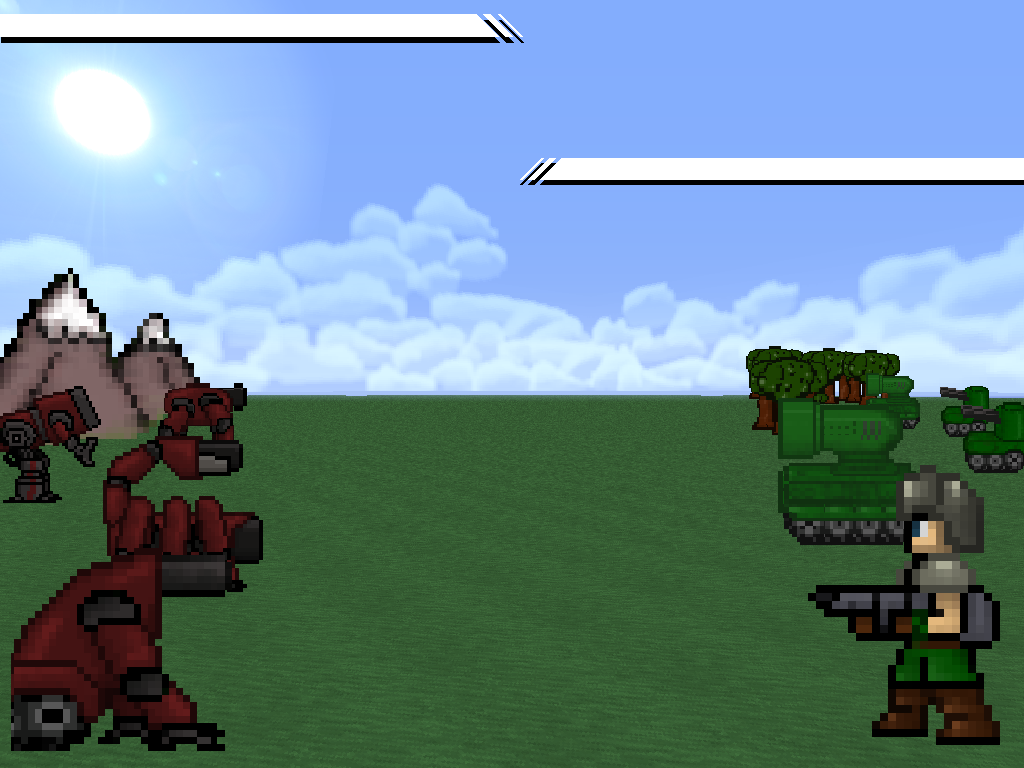
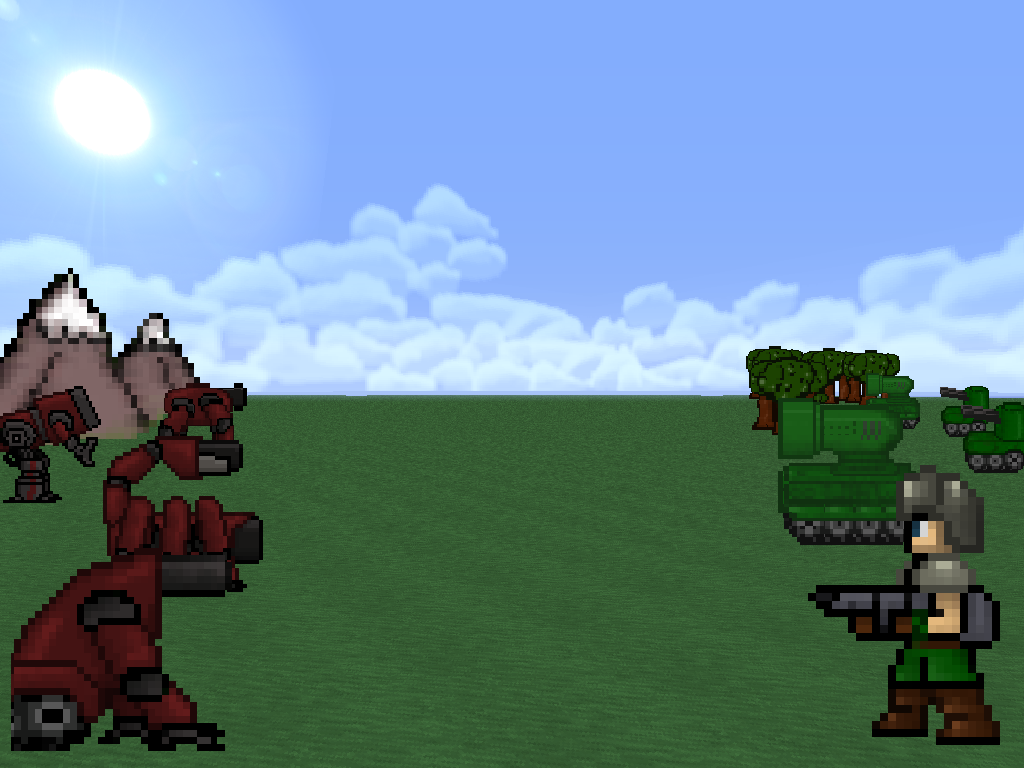
Changement mineur de l'apparence du menu principal

Changed region(s): [[0.0, 0.0, 0.5, 0.0625], [0.5, 0.1875, 1.0, 0.25]]

diff --git a/PanelMatrice.java b/PanelMatrice.java
@@ -313,76 +313,78 @@ public class PanelMatrice extends JPanel
         
         // Si la partie est finie : Ecran de fin de partie
         if(Slatch.partie.partieFinie) {
-            // Fond d'ecran de fin de partie
-            afficheImageRedim ("noir80", 0, 0, this.getWidth(), this.getHeight(), g);
-            
-            // Choix de la police de char
-            Font font = new Font("Serif", Font.BOLD, this.getWidth()/75);
-            g.setFont(font);
-            FontMetrics fm=getFontMetrics(font); 
-            g.setColor(Color.white);
-            
-            int hauteurSize = fm.getHeight();
-            String joueur = "Le joueur "+ Slatch.partie.getJoueurActuel() +" a gagné";
-            int joueurSize = fm.stringWidth(joueur);
-            g.drawString(joueur, this.getWidth()/2 - joueurSize/2, 2*this.getHeight()/(2*hauteurSize));
-            
-            // Affiche les statistiques
-            for(int i=1; i<=Slatch.partie.getNbrJoueur(); i++){
-                int decalage=0;
-                if(Slatch.partie.getNbrJoueur()==2 && i==1) decalage=-this.getWidth()/5;
-                if(Slatch.partie.getNbrJoueur()==2 && i==2) decalage=this.getWidth()/5;
-                
-                if(Slatch.partie.getNbrJoueur()==3 && i==1) decalage=-this.getWidth()/5;
-                if(Slatch.partie.getNbrJoueur()==3 && i==2) decalage=0;
-                if(Slatch.partie.getNbrJoueur()==3 && i==3) decalage=this.getWidth()/5;
-                
-                if(Slatch.partie.getNbrJoueur()==4 && i==1) decalage=-this.getWidth()/3;
-                if(Slatch.partie.getNbrJoueur()==4 && i==2) decalage=-this.getWidth()/9;
-                if(Slatch.partie.getNbrJoueur()==4 && i==3) decalage=this.getWidth()/9;
-                if(Slatch.partie.getNbrJoueur()==4 && i==4) decalage=this.getWidth()/3;
-                
-                String stat1 = "Statistiques du joueur " + i;
-                int stat1Size = fm.stringWidth(stat1);
-                String stat13 = "Score : " + Slatch.partie.ListeJoueur.get(i).getScore();
-                int stat13Size = fm.stringWidth(stat13);
-                String stat2 = "Argent recolte : " + Slatch.partie.ListeJoueur.get(i).getArgentTotal()+"¤";
-                int stat2Size = fm.stringWidth(stat2);
-                String stat3 = "Argent depense : " + Slatch.partie.ListeJoueur.get(i).getArgentDepense()+"¤";
-                int stat3Size = fm.stringWidth(stat3);
-                String stat4 = "Batiments Captures: " + Slatch.partie.ListeJoueur.get(i).getCaptureTotal();
-                int stat4Size = fm.stringWidth(stat4);
-                String stat11 = "Unites Tuées : " + Slatch.partie.ListeJoueur.get(i).getNbrUniteTue();
-                int stat11Size = fm.stringWidth(stat11);
-                String stat10 = "Unites créées : " + Slatch.partie.ListeJoueur.get(i).getNbrUniteCree();
-                int stat10Size = fm.stringWidth(stat10);
-                String stat5 = "Unites perdues : " + Slatch.partie.ListeJoueur.get(i).getNbrUniteMort();
-                int stat5Size = fm.stringWidth(stat5);
-                String stat6 = "Degats infliges : " + Slatch.partie.ListeJoueur.get(i).getDegatTotal();
-                int stat6Size = fm.stringWidth(stat6);
-                String stat12 = "Soin donne : " + Slatch.partie.ListeJoueur.get(i).getSoinTotal();
-                int stat12Size = fm.stringWidth(stat12);
-                String stat7 = "Degats subis : " + Slatch.partie.ListeJoueur.get(i).getDegatSubit();
-                int stat7Size = fm.stringWidth(stat7);
-                String stat8 = "Experience Totale : " + Slatch.partie.ListeJoueur.get(i).getExpTotal();
-                int stat8Size = fm.stringWidth(stat8);
-                String stat9 = "Deplacement Total : " + Slatch.partie.ListeJoueur.get(i).getDeplacementTotal();
-                int stat9Size = fm.stringWidth(stat9);
-                    
-                g.drawString(stat1, this.getWidth()/2 + decalage - stat1Size/2, 4*this.getHeight()/(2*hauteurSize));
-                g.drawString(stat13, this.getWidth()/2 + decalage - stat13Size/2, 5*this.getHeight()/(2*hauteurSize));
-                g.drawString(stat2, this.getWidth()/2 + decalage - stat2Size/2, 6*this.getHeight()/(2*hauteurSize));
-                g.drawString(stat3, this.getWidth()/2 + decalage - stat3Size/2, 7*this.getHeight()/(2*hauteurSize));
-                g.drawString(stat4, this.getWidth()/2 + decalage - stat4Size/2, 8*this.getHeight()/(2*hauteurSize));
-                g.drawString(stat5, this.getWidth()/2 + decalage - stat5Size/2, 9*this.getHeight()/(2*hauteurSize));
-                g.drawString(stat11, this.getWidth()/2 + decalage - stat11Size/2, 10*this.getHeight()/(2*hauteurSize));
-                g.drawString(stat10, this.getWidth()/2 + decalage - stat10Size/2, 11*this.getHeight()/(2*hauteurSize));
-                g.drawString(stat6, this.getWidth()/2 + decalage - stat6Size/2, 12*this.getHeight()/(2*hauteurSize));
-                g.drawString(stat12, this.getWidth()/2 + decalage - stat12Size/2, 13*this.getHeight()/(2*hauteurSize));
-                g.drawString(stat7, this.getWidth()/2 + decalage - stat7Size/2, 14*this.getHeight()/(2*hauteurSize));
-                g.drawString(stat8, this.getWidth()/2 + decalage - stat8Size/2, 15*this.getHeight()/(2*hauteurSize));
-                g.drawString(stat9, this.getWidth()/2 + decalage - stat9Size/2, 16*this.getHeight()/(2*hauteurSize));
-            }
+//            // Fond d'ecran de fin de partie
+//            afficheImageRedim ("noir80", 0, 0, this.getWidth(), this.getHeight(), g);
+//            
+//            // Choix de la police de char
+//            Font font = new Font("Serif", Font.BOLD, this.getWidth()/75);
+//            g.setFont(font);
+//            FontMetrics fm=getFontMetrics(font); 
+//            g.setColor(Color.white);
+//            
+//            int hauteurSize = fm.getHeight();
+//            String joueur = "Le joueur "+ Slatch.partie.getJoueurActuel() +" a gagné";
+//            int joueurSize = fm.stringWidth(joueur);
+//            g.drawString(joueur, this.getWidth()/2 - joueurSize/2, 2*this.getHeight()/(2*hauteurSize));
+//            
+//            // Affiche les statistiques
+//            for(int i=1; i<=Slatch.partie.getNbrJoueur(); i++){
+//                int decalage=0;
+//                if(Slatch.partie.getNbrJoueur()==2 && i==1) decalage=-this.getWidth()/5;
+//                if(Slatch.partie.getNbrJoueur()==2 && i==2) decalage=this.getWidth()/5;
+//                
+//                if(Slatch.partie.getNbrJoueur()==3 && i==1) decalage=-this.getWidth()/5;
+//                if(Slatch.partie.getNbrJoueur()==3 && i==2) decalage=0;
+//                if(Slatch.partie.getNbrJoueur()==3 && i==3) decalage=this.getWidth()/5;
+//                
+//                if(Slatch.partie.getNbrJoueur()==4 && i==1) decalage=-this.getWidth()/3;
+//                if(Slatch.partie.getNbrJoueur()==4 && i==2) decalage=-this.getWidth()/9;
+//                if(Slatch.partie.getNbrJoueur()==4 && i==3) decalage=this.getWidth()/9;
+//                if(Slatch.partie.getNbrJoueur()==4 && i==4) decalage=this.getWidth()/3;
+//                
+//                String stat1 = "Statistiques du joueur " + i;
+//                int stat1Size = fm.stringWidth(stat1);
+//                String stat13 = "Score : " + Slatch.partie.ListeJoueur.get(i).getScore();
+//                int stat13Size = fm.stringWidth(stat13);
+//                String stat2 = "Argent recolte : " + Slatch.partie.ListeJoueur.get(i).getArgentTotal()+"¤";
+//                int stat2Size = fm.stringWidth(stat2);
+//                String stat3 = "Argent depense : " + Slatch.partie.ListeJoueur.get(i).getArgentDepense()+"¤";
+//                int stat3Size = fm.stringWidth(stat3);
+//                String stat4 = "Batiments Captures: " + Slatch.partie.ListeJoueur.get(i).getCaptureTotal();
+//                int stat4Size = fm.stringWidth(stat4);
+//                String stat11 = "Unites Tuées : " + Slatch.partie.ListeJoueur.get(i).getNbrUniteTue();
+//                int stat11Size = fm.stringWidth(stat11);
+//                String stat10 = "Unites créées : " + Slatch.partie.ListeJoueur.get(i).getNbrUniteCree();
+//                int stat10Size = fm.stringWidth(stat10);
+//                String stat5 = "Unites perdues : " + Slatch.partie.ListeJoueur.get(i).getNbrUniteMort();
+//                int stat5Size = fm.stringWidth(stat5);
+//                String stat6 = "Degats infliges : " + Slatch.partie.ListeJoueur.get(i).getDegatTotal();
+//                int stat6Size = fm.stringWidth(stat6);
+//                String stat12 = "Soin donne : " + Slatch.partie.ListeJoueur.get(i).getSoinTotal();
+//                int stat12Size = fm.stringWidth(stat12);
+//                String stat7 = "Degats subis : " + Slatch.partie.ListeJoueur.get(i).getDegatSubit();
+//                int stat7Size = fm.stringWidth(stat7);
+//                String stat8 = "Experience Totale : " + Slatch.partie.ListeJoueur.get(i).getExpTotal();
+//                int stat8Size = fm.stringWidth(stat8);
+//                String stat9 = "Deplacement Total : " + Slatch.partie.ListeJoueur.get(i).getDeplacementTotal();
+//                int stat9Size = fm.stringWidth(stat9);
+//                    
+//                g.drawString(stat1, this.getWidth()/2 + decalage - stat1Size/2, 4*this.getHeight()/(2*hauteurSize));
+//                g.drawString(stat13, this.getWidth()/2 + decalage - stat13Size/2, 5*this.getHeight()/(2*hauteurSize));
+//                g.drawString(stat2, this.getWidth()/2 + decalage - stat2Size/2, 6*this.getHeight()/(2*hauteurSize));
+//                g.drawString(stat3, this.getWidth()/2 + decalage - stat3Size/2, 7*this.getHeight()/(2*hauteurSize));
+//                g.drawString(stat4, this.getWidth()/2 + decalage - stat4Size/2, 8*this.getHeight()/(2*hauteurSize));
+//                g.drawString(stat5, this.getWidth()/2 + decalage - stat5Size/2, 9*this.getHeight()/(2*hauteurSize));
+//                g.drawString(stat11, this.getWidth()/2 + decalage - stat11Size/2, 10*this.getHeight()/(2*hauteurSize));
+//                g.drawString(stat10, this.getWidth()/2 + decalage - stat10Size/2, 11*this.getHeight()/(2*hauteurSize));
+//                g.drawString(stat6, this.getWidth()/2 + decalage - stat6Size/2, 12*this.getHeight()/(2*hauteurSize));
+//                g.drawString(stat12, this.getWidth()/2 + decalage - stat12Size/2, 13*this.getHeight()/(2*hauteurSize));
+//                g.drawString(stat7, this.getWidth()/2 + decalage - stat7Size/2, 14*this.getHeight()/(2*hauteurSize));
+//                g.drawString(stat8, this.getWidth()/2 + decalage - stat8Size/2, 15*this.getHeight()/(2*hauteurSize));
+//                g.drawString(stat9, this.getWidth()/2 + decalage - stat9Size/2, 16*this.getHeight()/(2*hauteurSize));
+//            }
+        	
+        	afficheStatistique(g);
         } // FIN partieFinie
     }
     
@@ -853,6 +855,14 @@ public class PanelMatrice extends JPanel
             aMenuDescriptionBasDroite_Ypx = Slatch.partie.getHauteur()*aHauteurCarreau;
         }
     } // FIN redimMenuDescription
+    
+    public void afficheStatistique(Graphics g){
+    	Slatch.ihm.getPanelFrame().removeAll();
+    	PanelStatistique panel = new PanelStatistique();
+    	Slatch.ihm.getPanelFrame().add(panel);
+    	Slatch.ihm.getPanelFrame().repaint();
+    	Slatch.ihm.getPanelFrame().updateUI();
+    }
     
     public int getaLargeurCarreau() {return aLargeurCarreau;}
     public int getaHauteurCarreau() {return aHauteurCarreau;}

diff --git a/PanelMenu.java b/PanelMenu.java
@@ -97,13 +97,16 @@ public class PanelMenu extends JPanel
         Image ok = Slatch.aImages.get("boutonok");
         Image retour = Slatch.aImages.get("boutonretour");
 
+        Image trait = Slatch.aImages.get("trait");
+        
+//        Font font = new Font("Helvetica", Font.BOLD, this.getWidth()/50);
+        Font font;
+
+
         try {
             font = Font.createFont(Font.TRUETYPE_FONT, new File(getClass()
                     .getClassLoader().getResource("Config/visitor2.ttf")
                     .toURI())).deriveFont(Font.PLAIN, this.getWidth()/50);
-                    } catch (FontFormatException | IOException | URISyntaxException e) {
-            e.printStackTrace();
-        }
         g.setFont(font);
         FontMetrics fm=getFontMetrics(font); 
         
@@ -121,6 +124,7 @@ public class PanelMenu extends JPanel
             Image mapcreator = Slatch.aImages.get("boutonmapcreator");
             Image credits = Slatch.aImages.get("boutoncredits");
             
+            g.drawImage(trait, 0, 0, this.getWidth(), this.getHeight(), this);
             g.drawImage(slatch, this.getWidth()/2-2*vHauteurTitre, this.getHeight()/15, 4*vHauteurTitre,vHauteurTitre, this);
             g.drawImage(campagne, this.getWidth()/2-2*aHauteurBouton, 33+ this.getHeight()/4, 4*aHauteurBouton,aHauteurBouton, this);
             g.drawImage(rapide, this.getWidth()/2-2*aHauteurBouton, 33+ 3*this.getHeight()/8, 4*aHauteurBouton,aHauteurBouton, this);
@@ -232,7 +236,10 @@ public class PanelMenu extends JPanel
             }
         
         }
-        
+        } 
+        catch (FontFormatException | IOException | URISyntaxException e) {
+            e.printStackTrace();
+        }
         
     }
     

diff --git a/Slatch.java b/Slatch.java
@@ -224,6 +224,9 @@ public class Slatch {
                 image = ImageIO.read(getClass().getClassLoader().getResource("Images/menu/wallpaper.png"));
                 aImages.put("wallpaper",image);
                 
+                image = ImageIO.read(getClass().getClassLoader().getResource("Images/menu/trait.png"));
+                aImages.put("trait",image);
+                
                 image = ImageIO.read(getClass().getClassLoader().getResource("Images/campagne/background.png"));
                 aImages.put("background",image);
                 
